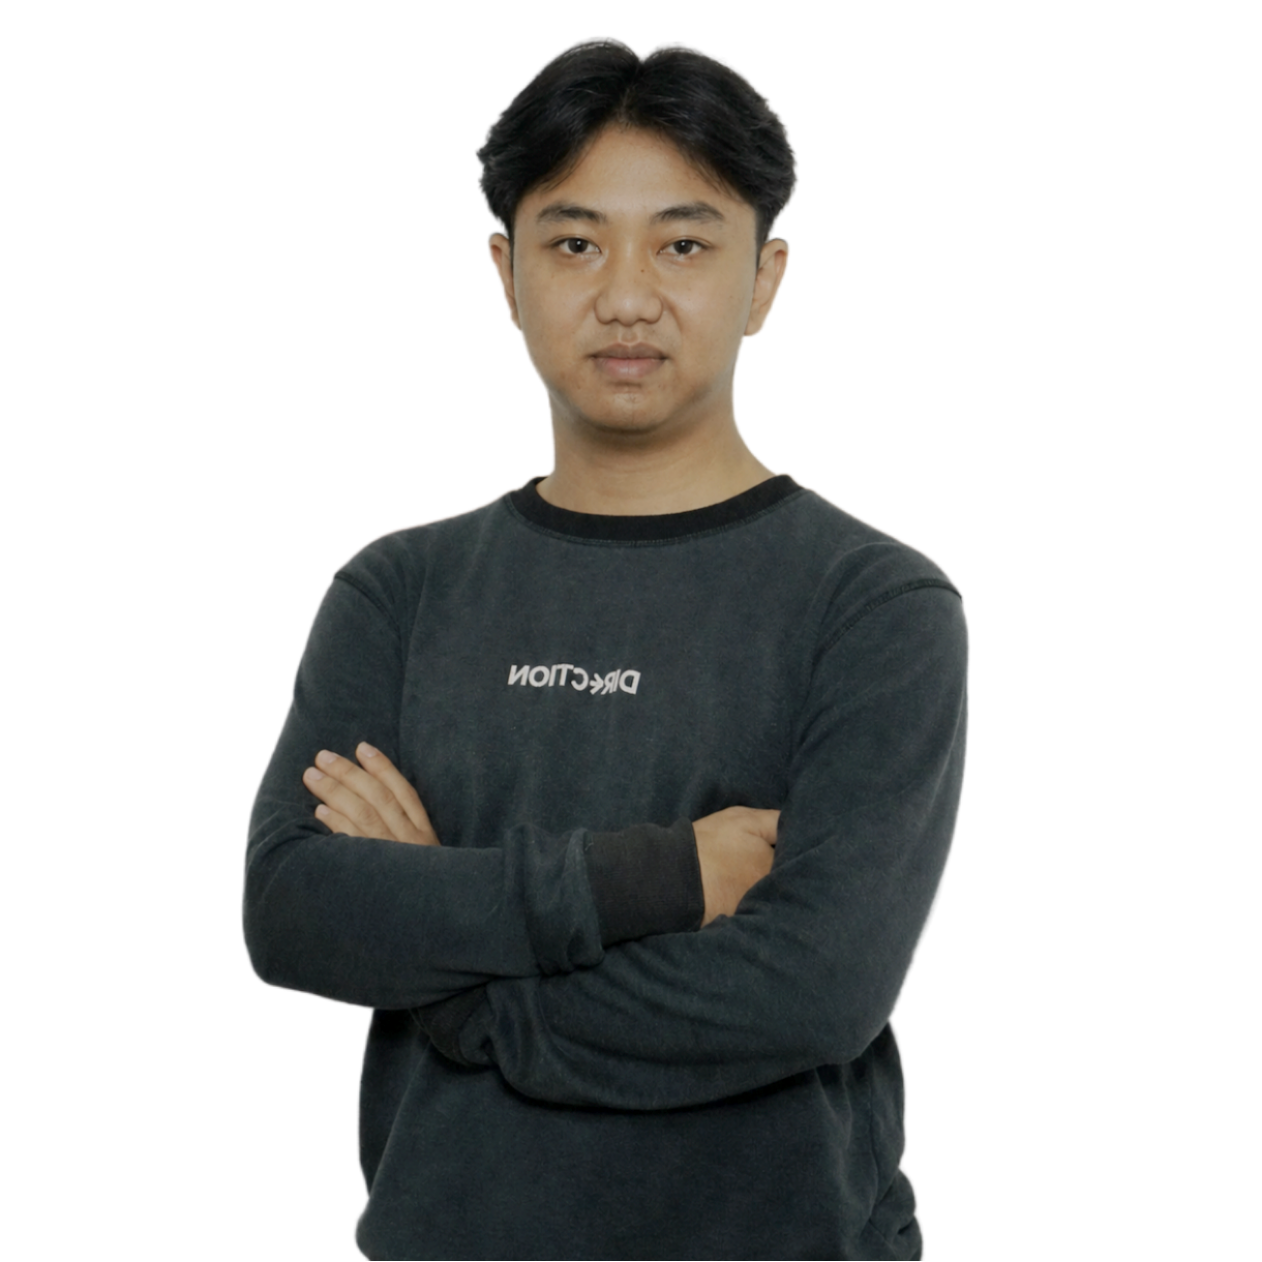
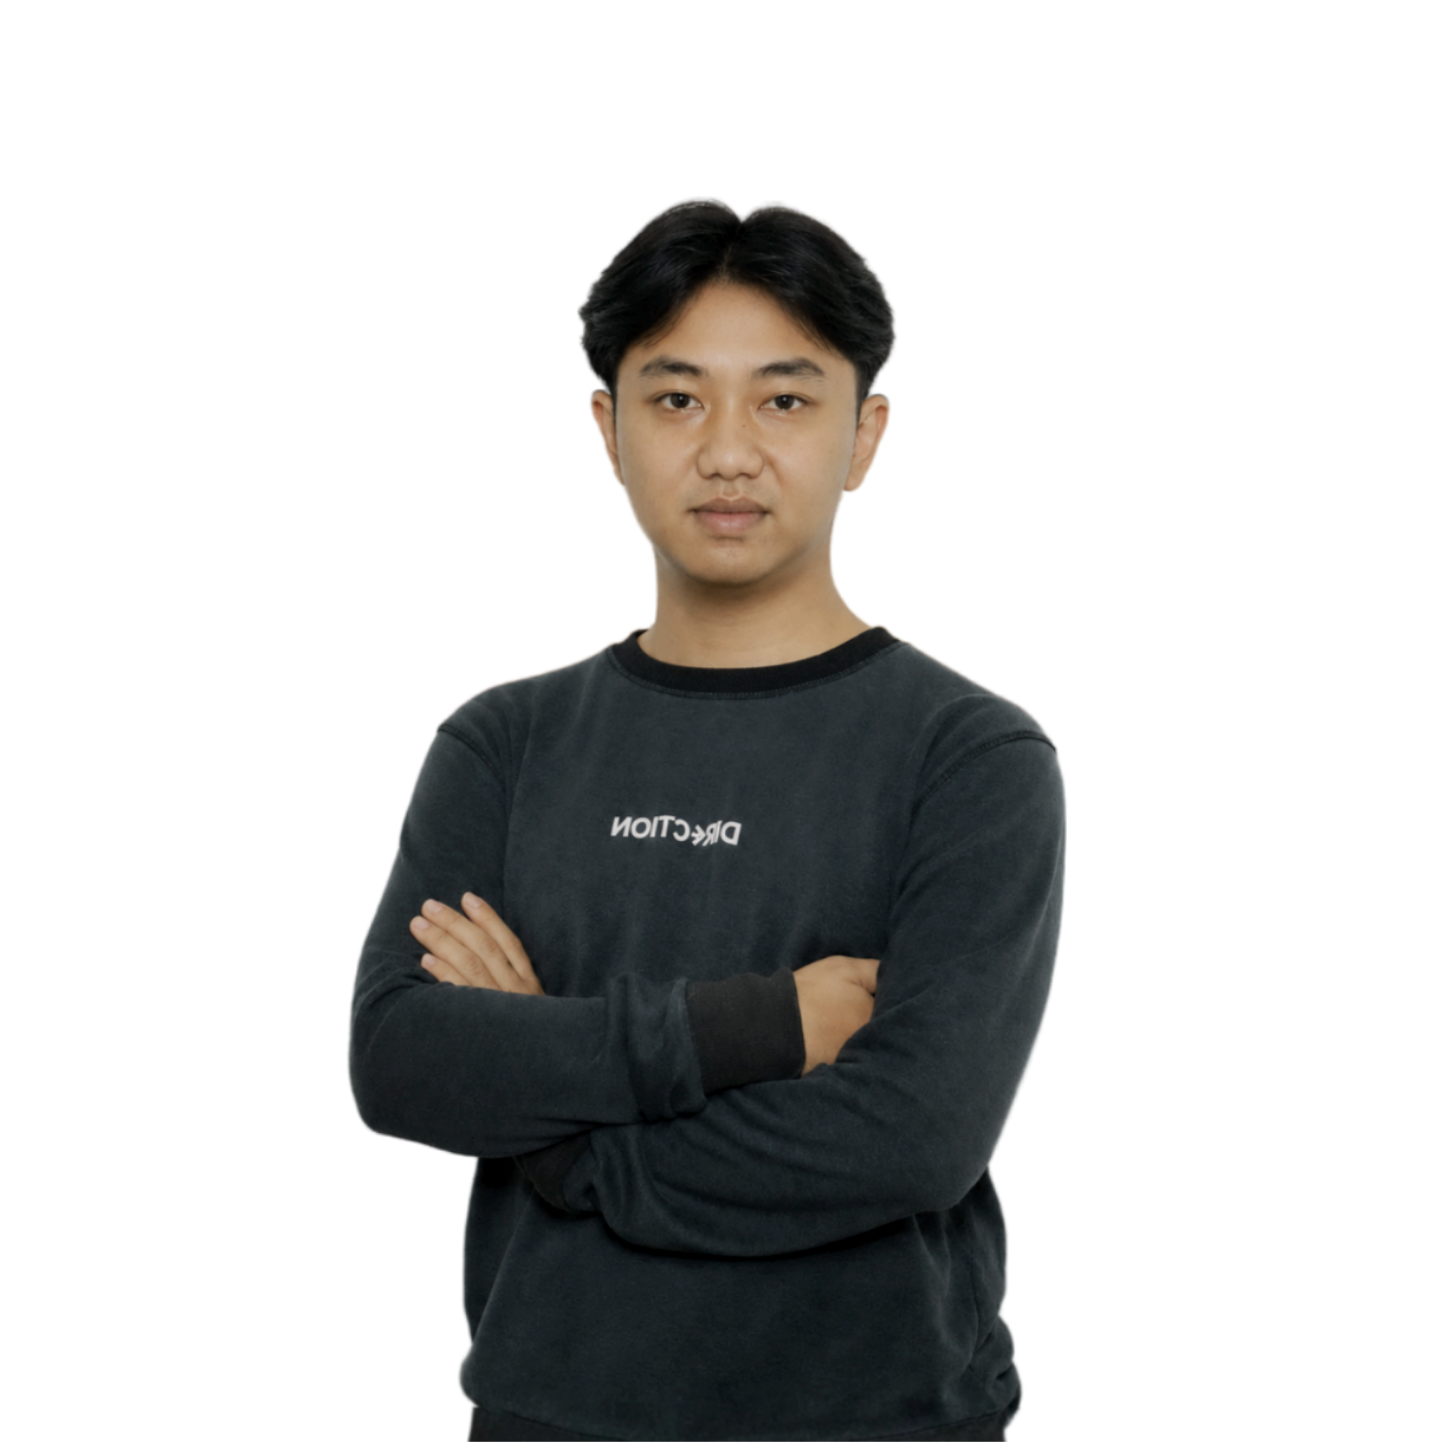
page

diff --git a/src/app/page.tsx b/src/app/page.tsx
@@ -1,7 +1,7 @@
 "use client";
 
 import Image from "next/image";
-import { useEffect, useState } from "react";
+import { useEffect, useRef, useState } from "react";
 
 const navLinks = [
   { id: "home", label: "Home", icon: "home" },
@@ -124,6 +124,16 @@ const blogPosts = [
 export default function Home() {
   const [isMenuOpen, setIsMenuOpen] = useState(false);
   const [activeSection, setActiveSection] = useState("home");
+  const worksScrollRef = useRef<HTMLDivElement>(null);
+
+  const scrollWorks = (direction: "left" | "right") => {
+    if (!worksScrollRef.current) return;
+    const scrollAmount = 360;
+    worksScrollRef.current.scrollBy({
+      left: direction === "left" ? -scrollAmount : scrollAmount,
+      behavior: "smooth",
+    });
+  };
 
   useEffect(() => {
     const sections = document.querySelectorAll("section[id]");
@@ -150,7 +160,7 @@ export default function Home() {
       <header className="fixed top-0 w-full z-50 bg-surface/80 dark:bg-surface/80 backdrop-blur-md border-b border-outline-variant/30">
         <div className="flex justify-between items-center h-16 px-margin-mobile md:px-margin-desktop max-w-max-width mx-auto">
           <a href="/">
-          <div className="flex items-center gap-2 md:-ml-10">
+          <div className="flex items-center gap-2 md:-ml-12">
             <span className="material-symbols-outlined text-secondary" data-icon="terminal">
               terminal
             </span>
@@ -160,7 +170,7 @@ export default function Home() {
           </div>
           </a>
           {/* Desktop Menu */}
-          <nav className="hidden md:flex items-center gap-8">
+          <nav className="hidden md:flex md:-mr-14 items-center gap-8">
             {navLinks.map((link) => (
               <a
                 key={link.id}
@@ -236,9 +246,9 @@ export default function Home() {
           <div className="relative z-10 flex flex-col md:flex-row items-center md:items-center justify-between gap-12">
             {/* Mobile: Image Top, Desktop: Image Right */}
             <div className="md:order-2 w-full md:w-1/2 flex justify-center md:justify-end">
-              <div className="relative group md:mr-10">
-                <div className="absolute -inset-4 bg-secondary/20 rounded-full blur-2xl group-hover:bg-secondary/30 transition-all duration-500" />
-                <div className="relative w-70 h-70 md:w-80 md:h-80 lg:w-96 lg:h-96 rounded-full overflow-hidden flex-shrink-0">
+              <div className="relative group">
+                <div className="absolute -inset-4 bg-secondary/20 rounded-[50%] blur-sm group-hover:bg-secondary/70 shadow-[0_0_40px_0px] shadow-secondary/80 transition-all duration-500 flex-shrink-10" />
+                <div className="relative w-90 h-90 md:w-80 md:h-80 lg:w-96 lg:h-96 rounded-[50%] overflow-hidden shadow-[0_0_40px_0px] shadow-secondary/80 transition-all duration-500">
                   <Image
                     src="/pictures/me.png"
                     alt="Darmawan Profile"
@@ -250,7 +260,7 @@ export default function Home() {
                 </div>
               </div>
             </div>
-            <div className="md:order-1 w-full md:w-1/2 max-w-2xl text-center md:text-left md:ml-2">
+            <div className="md:order-1 w-full md:w-1/2 max-w-2xl text-center md:text-left">
               <p className="font-label-mono text-label-mono text-secondary mb-4 tracking-[0.2em] uppercase">
                 HI, I&apos;M <span className="text-secondary">DARMAWAN</span>
               </p>
@@ -282,7 +292,7 @@ export default function Home() {
 
         {/* Services Section */}
         <section
-          className="py-20 px-margin-mobile md:px-margin-desktop overflow-hidden w-full"
+          className="py-24 px-margin-mobile md:px-margin-desktop overflow-hidden"
           id="services"
         >
           <div className="mb-16">
@@ -320,7 +330,7 @@ export default function Home() {
 
         {/* Works Section */}
         <section className="py-24 bg-surface-container-lowest" id="works">
-          <div className="px-margin-mobile md:px-margin-desktop max-w-max-width mx-auto">
+          <div className="px-margin-mobile md:px-margin-desktop overflow-hidden">
             <div className="mb-16 flex flex-col md:flex-row md:items-end justify-between gap-6">
               <div>
                 <h2 className="font-headline-lg-mobile text-headline-lg-mobile md:font-headline-lg md:text-headline-lg mb-4">
@@ -328,56 +338,82 @@ export default function Home() {
                 </h2>
                 <div className="h-1 w-20 bg-secondary" />
               </div>
-              <p className="font-label-mono text-label-mono text-on-surface-variant md:max-w-xs uppercase">
-                A curation of technical solutions and creative builds.
-              </p>
             </div>
-            <div className="grid grid-cols-1 md:grid-cols-2 gap-8">
-              {projects.map((project) => (
-                <div
-                  key={project.title}
-                  className="group relative overflow-hidden bg-surface-container rounded-lg border border-outline-variant/30 transition-all hover:-translate-y-2"
-                >
-                  <div className="aspect-video relative overflow-hidden">
-                    <img
-                      className="w-full h-full object-cover transition-transform duration-500 group-hover:scale-110"
-                      alt={project.alt}
-                      src={project.image}
-                    />
-                    <div className="absolute inset-0 bg-gradient-to-t from-surface-container to-transparent opacity-60" />
-                  </div>
-                  <div className="p-8">
-                    <div className="flex gap-2 mb-4">
-                      {project.tags.map((tag) => (
-                        <span
-                          key={tag}
-                          className="bg-secondary/10 text-secondary text-caption font-label-mono px-3 py-1 rounded-full"
-                        >
-                          {tag}
-                        </span>
-                      ))}
+            <div className="relative">
+              {projects.length >= 4 && (
+                <>
+                  <button
+                    aria-label="Previous project"
+                    onClick={() => scrollWorks("left")}
+                    className="hidden md:flex absolute left-0 top-1/2 -translate-y-1/2 -translate-x-1/2 z-10 w-10 h-10 items-center justify-center rounded-full border border-outline-variant bg-surface-container-lowest hover:border-secondary hover:text-secondary transition-colors"
+                  >
+                    <span className="material-symbols-outlined" data-icon="chevron_left">
+                      chevron_left
+                    </span>
+                  </button>
+                  <button
+                    aria-label="Next project"
+                    onClick={() => scrollWorks("right")}
+                    className="hidden md:flex absolute right-0 top-1/2 -translate-y-1/2 translate-x-1/2 z-10 w-10 h-10 items-center justify-center rounded-full border border-outline-variant bg-surface-container-lowest hover:border-secondary hover:text-secondary transition-colors"
+                  >
+                    <span className="material-symbols-outlined" data-icon="chevron_right">
+                      chevron_right
+                    </span>
+                  </button>
+                </>
+              )}
+              <div
+                ref={worksScrollRef}
+                className="flex gap-6 overflow-x-auto pb-4 snap-x snap-mandatory scroll-smooth [-ms-overflow-style:none] [scrollbar-width:none] [&::-webkit-scrollbar]:hidden"
+              >
+                {projects.map((project) => (
+                  <div
+                    key={project.title}
+                    className="group relative overflow-hidden bg-surface-container rounded-xl border border-outline-variant/30 transition-all hover:-translate-y-2 flex-shrink-0 w-[280px] sm:w-[320px] snap-start"
+                  >
+                    <div className="aspect-video relative overflow-hidden">
+                      <img
+                        className="w-full h-full object-cover transition-transform duration-500 group-hover:scale-110"
+                        alt={project.alt}
+                        src={project.image}
+                      />
+                      <div className="absolute inset-0 bg-gradient-to-t from-surface-container to-transparent opacity-60" />
                     </div>
-                    <h3 className="font-headline-md text-headline-md mb-2">{project.title}</h3>
-                    <p className="text-on-surface-variant mb-6">{project.description}</p>
-                    <a
-                      className="text-secondary font-label-mono text-label-mono flex items-center gap-2 hover:gap-4 transition-all"
-                      href="#"
-                    >
-                      CASE STUDY{" "}
-                      <span className="material-symbols-outlined" data-icon="arrow_right_alt">
-                        arrow_right_alt
-                      </span>
-                    </a>
+                    <div className="p-6">
+                      <div className="flex gap-2 mb-3">
+                        {project.tags.map((tag) => (
+                          <span
+                            key={tag}
+                            className="bg-secondary/10 text-secondary text-caption font-label-mono px-3 py-1 rounded-full"
+                          >
+                            {tag}
+                          </span>
+                        ))}
+                      </div>
+                      <h3 className="font-headline-md text-lg mb-2">{project.title}</h3>
+                      <p className="text-on-surface-variant text-sm mb-4 line-clamp-3">
+                        {project.description}
+                      </p>
+                      <a
+                        className="text-secondary font-label-mono text-label-mono flex items-center gap-2 hover:gap-4 transition-all"
+                        href="#"
+                      >
+                        CASE STUDY{" "}
+                        <span className="material-symbols-outlined" data-icon="arrow_right_alt">
+                          arrow_right_alt
+                        </span>
+                      </a>
+                    </div>
                   </div>
-                </div>
-              ))}
+                ))}
+              </div>
             </div>
           </div>
         </section>
 
         {/* Skills & Education Section */}
         <section
-          className="py-24 px-margin-mobile md:px-margin-desktop max-w-max-width mx-auto"
+          className="py-24 px-margin-mobile md:px-margin-desktop"
           id="skills"
         >
           <div className="grid grid-cols-1 lg:grid-cols-2 gap-16">
@@ -449,7 +485,7 @@ export default function Home() {
 
         {/* Blog Section */}
         <section className="py-24 bg-surface-container-lowest" id="blog">
-          <div className="px-margin-mobile md:px-margin-desktop max-w-max-width mx-auto">
+          <div className="px-margin-mobile md:px-margin-desktop">
             <div className="mb-16 flex flex-col md:flex-row md:items-end justify-between gap-6">
               <div>
                 <h2 className="font-headline-lg-mobile text-headline-lg-mobile md:font-headline-lg md:text-headline-lg mb-4">
@@ -457,15 +493,12 @@ export default function Home() {
                 </h2>
                 <div className="h-1 w-20 bg-secondary" />
               </div>
-              <p className="font-label-mono text-label-mono text-on-surface-variant md:max-w-xs uppercase">
-                Thoughts on architecture, performance, and the web.
-              </p>
             </div>
             <div className="grid grid-cols-1 md:grid-cols-3 gap-8">
               {blogPosts.map((post) => (
                 <div
                   key={post.title}
-                  className="group bg-surface-container rounded-lg border border-outline-variant/30 overflow-hidden transition-all hover:border-secondary/30"
+                  className="group bg-surface-container rounded-3xl border border-outline-variant/30 overflow-hidden transition-all hover:border-secondary/30"
                 >
                   <div className="aspect-video bg-surface-variant/30 flex items-center justify-center overflow-hidden">
                     {/* eslint-disable-next-line @next/next/no-img-element */}
@@ -503,7 +536,7 @@ export default function Home() {
 
         {/* Contact Section */}
         <section className="py-24 bg-surface-container-low" id="contact">
-          <div className="px-margin-mobile md:px-margin-desktop max-w-max-width mx-auto">
+          <div className="px-margin-mobile md:px-margin-desktop">
             <div className="grid grid-cols-1 lg:grid-cols-2 gap-16">
               <div>
                 <h2 className="font-display-lg-mobile text-display-lg-mobile mb-6">
@@ -522,9 +555,9 @@ export default function Home() {
                     </div>
                     <div>
                       <p className="font-label-mono text-caption text-on-tertiary-container uppercase">
-                        Office Location
+                        Location
                       </p>
-                      <p className="font-body-md">Jakarta, Indonesia</p>
+                      <p className="font-body-md">Sukabumi City, West Java, Indonesia</p>
                     </div>
                   </div>
                   <div className="flex items-center gap-6">
@@ -537,7 +570,7 @@ export default function Home() {
                       <p className="font-label-mono text-caption text-on-tertiary-container uppercase">
                         Phone Number
                       </p>
-                      <p className="font-body-md">+62 821 2345 6789</p>
+                      <p className="font-body-md">+62 857 1794 5499</p>
                     </div>
                   </div>
                   <div className="flex items-center gap-6">
@@ -550,12 +583,12 @@ export default function Home() {
                       <p className="font-label-mono text-caption text-on-tertiary-container uppercase">
                         Email Address
                       </p>
-                      <p className="font-body-md">hi@darmawan.dev</p>
+                      <p className="font-body-md">darmawanprajadiputra@gmail.com</p>
                     </div>
                   </div>
                 </div>
               </div>
-              <div className="glass-card p-8 rounded-xl">
+              <div className="glass-card p-8 rounded-3xl">
                 <form
                   className="space-y-6"
                   onSubmit={(e) => {
@@ -607,9 +640,9 @@ export default function Home() {
 
       {/* Footer Shell */}
       <footer className="w-full py-10 bg-surface-container-lowest dark:bg-surface-container-lowest border-t border-outline-variant/20">
-        <div className="flex flex-col md:flex-row justify-between items-center px-margin-mobile md:px-margin-desktop max-w-max-width mx-auto gap-4">
+        <div className="flex flex-col md:flex-row justify-between items-center px-margin-mobile md:px-margin-desktop gap-4">
           <span className="font-label-mono text-label-mono text-secondary uppercase">
-            DARMAWAN
+            DARMAWAN SUKA PRAJADIPUTRA
           </span>
           <p className="font-caption text-caption text-on-surface-variant opacity-80 hover:opacity-100 transition-all">
             © 2024 Darmawan. Built with Precision.
@@ -617,21 +650,21 @@ export default function Home() {
           <div className="flex gap-6">
             <a
               className="font-caption text-caption text-on-surface-variant hover:text-secondary underline decoration-secondary/30 transition-all"
-              href="#"
+              href="https://www.linkedin.com/in/darmawan-suka-prajadiputra-466029290/"
             >
               LinkedIn
             </a>
             <a
               className="font-caption text-caption text-on-surface-variant hover:text-secondary underline decoration-secondary/30 transition-all"
-              href="#"
+              href="https://github.com/prajadiputra22"
             >
               GitHub
             </a>
             <a
               className="font-caption text-caption text-on-surface-variant hover:text-secondary underline decoration-secondary/30 transition-all"
-              href="#"
+              href="https://www.instagram.com/_prajadiputra?igsh=MWRxM3dzM2J3ZGU0"
             >
-              Twitter
+              Instagram
             </a>
           </div>
         </div>
